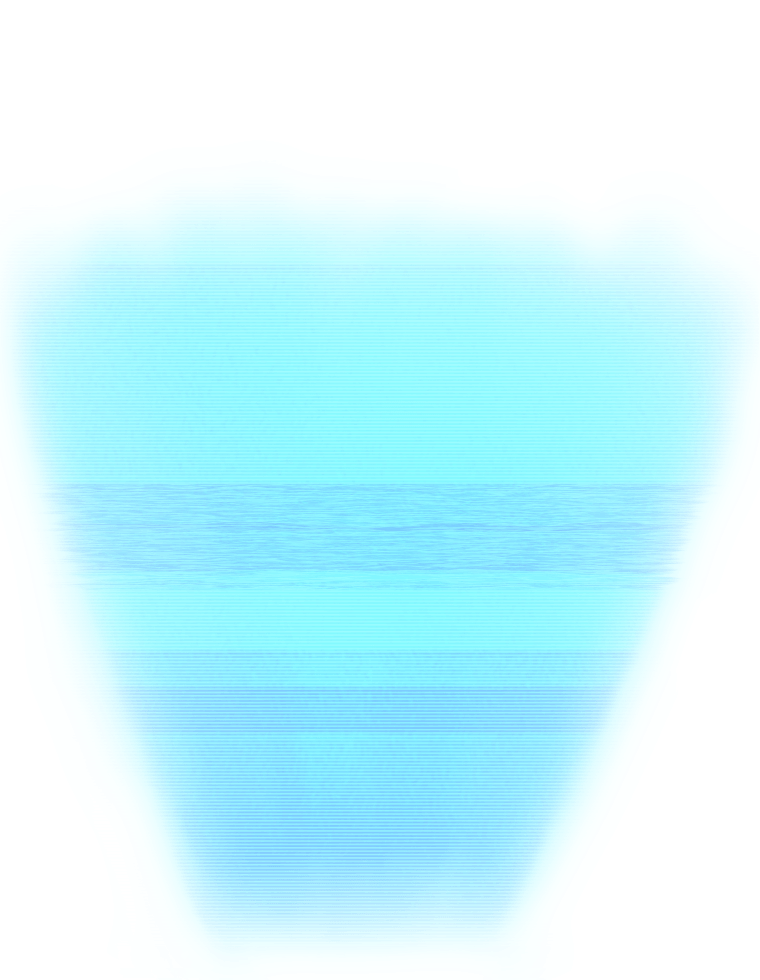
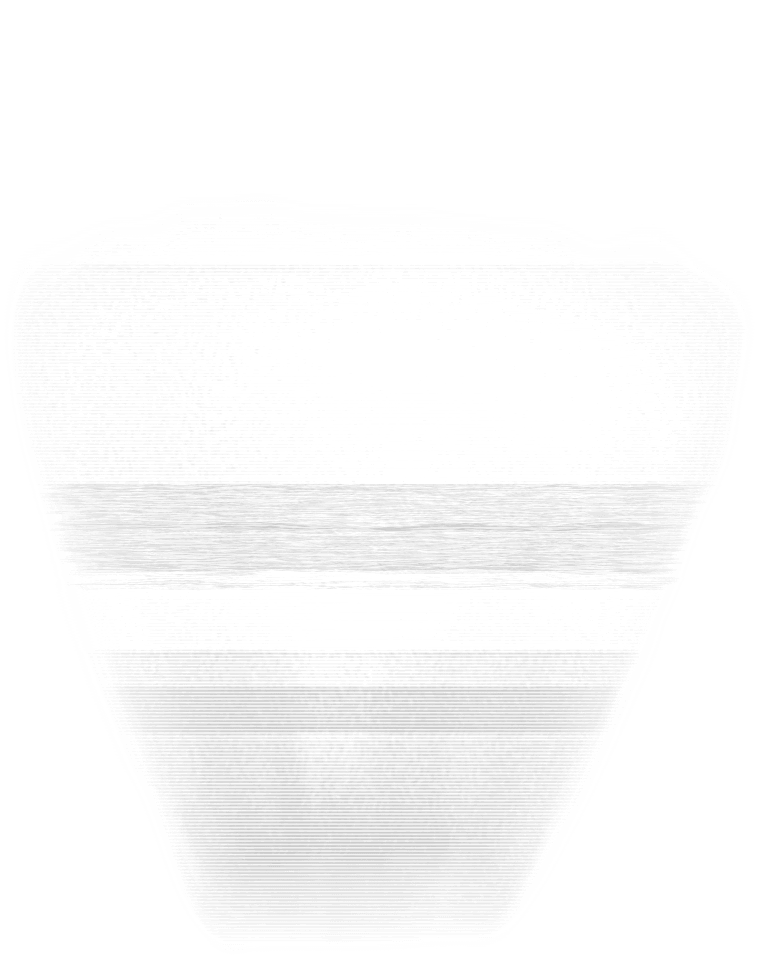
Updated holograms to use color modes
Converted all image assets to grayscale in the process.

diff --git a/Assets/Scripts/GamePlay/UtilsScript.cs b/Assets/Scripts/GamePlay/UtilsScript.cs
@@ -89,7 +89,7 @@ public class UtilsScript : MonoBehaviour
             RaycastHit2D hit = Physics2D.Raycast(Camera.main.ScreenToWorldPoint(Input.mousePosition), Vector2.zero);
             if (Input.GetMouseButtonUp(0))
             {
-                DragGlowRevert();
+                DragGlowRevert(isPlacing: true);
                 TryToPlaceCards(hit);
                 UnselectCards();
                 showPossibleMoves.HideMoves();
@@ -357,7 +357,7 @@ public class UtilsScript : MonoBehaviour
         }
     }
 
-    private void DragGlowRevert()
+    private void DragGlowRevert(bool isPlacing = false)
     {
         // if we where hovering over a glowing reactor
         if (changedSuitGlowColor)
@@ -369,11 +369,11 @@ public class UtilsScript : MonoBehaviour
         // if we where hovering over a glowing token
         if (changedHologramColor)
         {
-            topSelectedCopyCardScript.HologramColor = GameValues.Colors.normal;
+            topSelectedCopyCardScript.HologramColor = GameValues.Colors.card;
             changedHologramColor = false;
         }
 
-        if (wasOnMatch)
+        if (wasOnMatch && !isPlacing)
         {
             topSelectedCopyCardScript.MatchChangeFoodHologram(false);
             wasOnMatch = false;

diff --git a/Assets/Scripts/Settings/GameValues.cs b/Assets/Scripts/Settings/GameValues.cs
@@ -98,14 +98,15 @@ public static class GameValues
         public const float selectedCardOpacity = 0.25f;
         public static readonly Color cardObstructedColor = new(0.6f, 0.6f, 0.6f);
         public static readonly HighLightColor normal = new(Color.white, Constants.ColorLevel.None);
+        public static readonly HighLightColor card = new("#1af4ff", Constants.ColorLevel.None);
 
         public static class Modes
         {
             public static readonly ColorMode normal = new("Normal",
                 new HighLightColor(Color.green, Constants.ColorLevel.Match),
-                new HighLightColor("#FFFF00", Constants.ColorLevel.Move),
+                new HighLightColor("#FFDF00", Constants.ColorLevel.Move),
                 new HighLightColor(Color.red, Constants.ColorLevel.Over),
-                new HighLightColor(Color.cyan, Constants.ColorLevel.Notify)
+                new HighLightColor("#4691D5", Constants.ColorLevel.Notify)
                 );
 
             public static readonly ColorMode deuteranopia = new("Deuteranopia",
